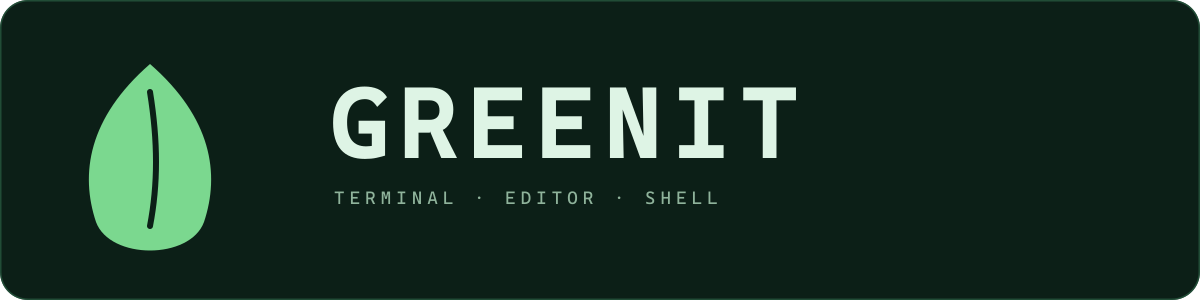
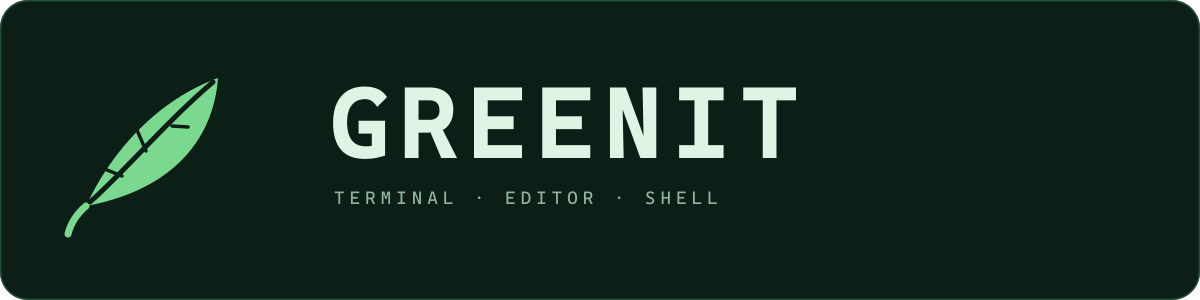
fix: correct light artifacts and polish brand assets

Changed region(s): [[0.0308, 0.21, 0.185, 0.84]]

diff --git a/index.html b/index.html
@@ -14,7 +14,7 @@
 <meta property="og:image:height" content="300">
 <meta name="twitter:card" content="summary_large_image">
 <meta name="twitter:image" content="https://mark44928.github.io/Greenit/docs/og.png">
-<link rel="icon" href="assets/logo.svg" type="image/svg+xml">
+<link rel="icon" href="assets/icon.svg" type="image/svg+xml">
 <link rel="stylesheet" href="assets/family.css">
 <script defer src="assets/family.js"></script>
 <style>
@@ -33,7 +33,7 @@ pre{background:var(--p);border:1px solid var(--b);border-radius:10px;padding:13p
 <p class="lede">A green-injected terminal and editor family. One <code>palette.json</code> generates every app port, from Termux and Vim to Neovim, bat and the offline gallery.</p>
 <div class="buttons"><a class="btn primary" href="https://github.com/Mark44928/Greenit">Source &amp; install</a><a class="btn" href="https://mark44928.github.io/Greenit/gallery.html">Gallery</a><a class="btn" href="https://github.com/Mark44928/Greenit/releases">Releases</a><a class="btn" href="https://mark44928.github.io/Mark44928/">Project hub</a></div>
 <pre>git clone https://github.com/Mark44928/Greenit.git
-cd Greenit &amp;&amp; ./install.sh</pre>
+cd Greenit &amp;&amp; bash install.sh</pre>
 <img src="docs/neovim-dark.png" alt="Greenit in Neovim">
 <ul class="grid"><li><b>64 artifacts</b>dark and light from one source</li><li><b>Real apps</b>Termux, Vim, Neovim, bat, tmux, Yazi</li><li><b>Gallery</b>offline preview for every port</li><li><b>Contrast checked</b>WCAG values regenerated</li></ul>
 <footer>Generated, not hand-painted. Change the palette, regenerate everything.</footer>

diff --git a/gallery.html b/gallery.html
@@ -152,7 +152,7 @@
 
   <p class="empty" id="empty" hidden>No matches. Try a different search term or category.</p>
 
-  <footer>Generated from <code>palette.json</code>. Install with <code>./install.sh</code>. <a href="README.md">Full theme guide →</a></footer>
+  <footer>Generated from <code>palette.json</code>. Install with <code>bash install.sh</code>. <a href="README.md">Full theme guide →</a></footer>
 </main>
 <script>
 (function () {
@@ -193,8 +193,10 @@
     var path = btn.getAttribute('data-copy');
     if (current !== 'light') return path;
     if (path.indexOf('-dark') !== -1) return path.replace('-dark', '-light');
-    if (/\/greenit\.vim$/.test(path)) return path.replace(/\.vim$/, '-light.vim');
-    return path;
+    // flat names whose light counterpart is a "-light" sibling
+    var flat = { 'extras/kitty.conf': 'extras/kitty-light.conf', 'extras/ghostty': 'extras/ghostty-light', 'extras/alacritty.toml': 'extras/alacritty-light.toml' };
+    if (flat[path]) return flat[path];
+    return path; // shared artifacts (wezterm.lua, vim) contain both variants
   }
 
   chips.forEach(function (chip) {

diff --git a/README.md b/README.md
@@ -63,12 +63,12 @@ copies the matching variant. It never edits your main app configs — it prints
 the one include/theme line to add instead.
 
 ```bash
-./install.sh                     # interactive, dark by default
-./install.sh --light --all       # light variant, every detected app
-./install.sh --only termux,kitty,vim
-./install.sh --list              # show detected targets
-./install.sh --all --dry-run     # preview copies
-./install.sh --uninstall         # remove files recorded by the installer
+bash install.sh                     # interactive, dark by default
+bash install.sh --light --all       # light variant, every detected app
+bash install.sh --only termux,kitty,vim
+bash install.sh --list              # show detected targets
+bash install.sh --all --dry-run     # preview copies
+bash install.sh --uninstall         # remove files recorded by the installer
 ```
 
 Replaced files are backed up; the installer records what it wrote in
@@ -406,7 +406,9 @@ See [CONTRIBUTING.md](CONTRIBUTING.md) for adding terminal emulators, changing t
 Tiny, dependency-free tools from the same family:
 
 - [Pythonator](https://github.com/Mark44928/Pythonator) — Python rewrite of Plusalator — stdlib-only, `--eval`/`--json`
+- [Solvamath](https://github.com/Mark44928/Solvamath) — terminal math puzzle game — seven puzzle types, daily seed, achievements
 - [Bluney](https://github.com/Mark44928/Bluney) — blue-injected theme family — dark + light, single palette.json
+- [Yellen](https://github.com/Mark44928/Yellen) — golden-yellow theme family — dark + light, single palette.json
 - [Mark44928](https://github.com/Mark44928) — profile and project index
 - [plusafetch](https://github.com/Mark44928/plusafetch) — C++23 fetch for Termux — ~23 ms, zero subprocesses on the default path
 - [Plusalator](https://github.com/Mark44928/Plusalator) — C++17 calculator REPL — Qalculate-flavored, ghost autosuggest, 18 themes
